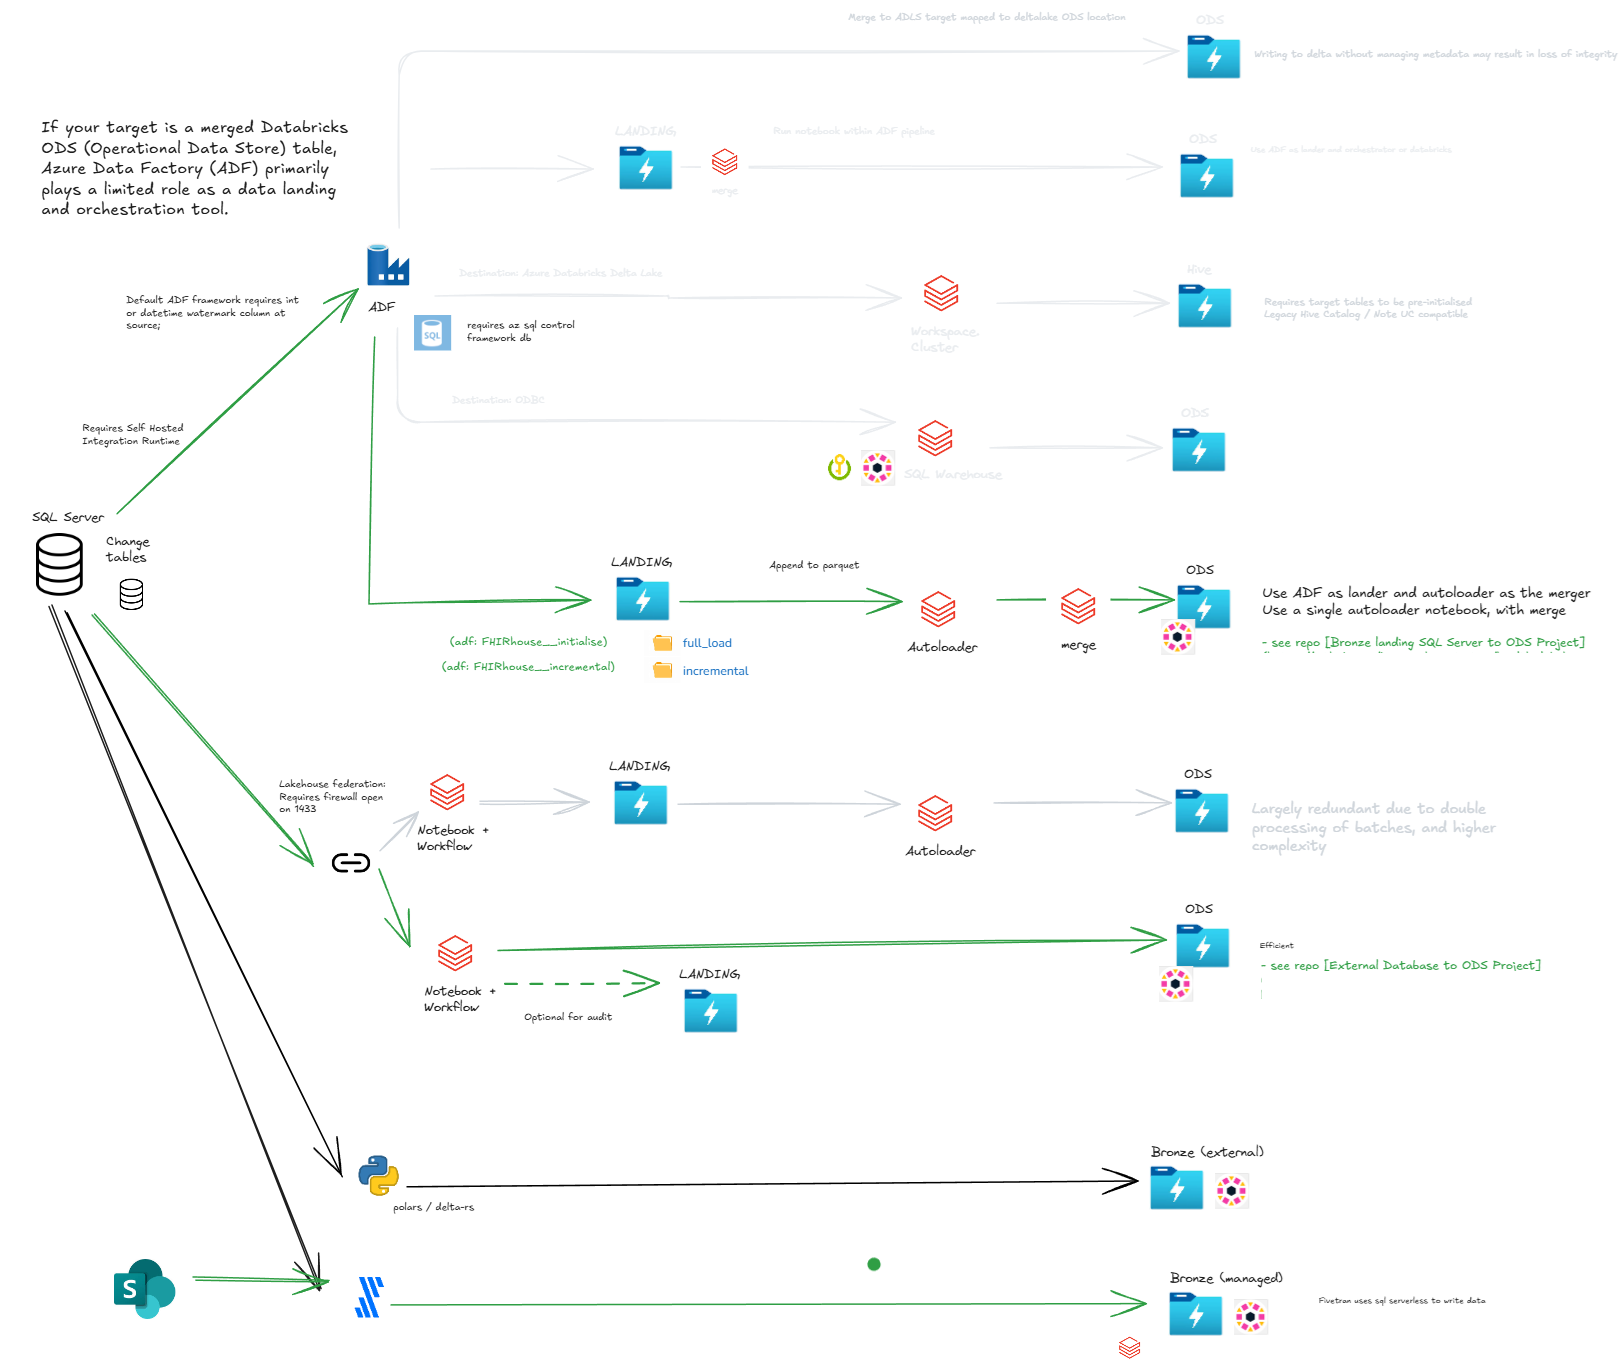
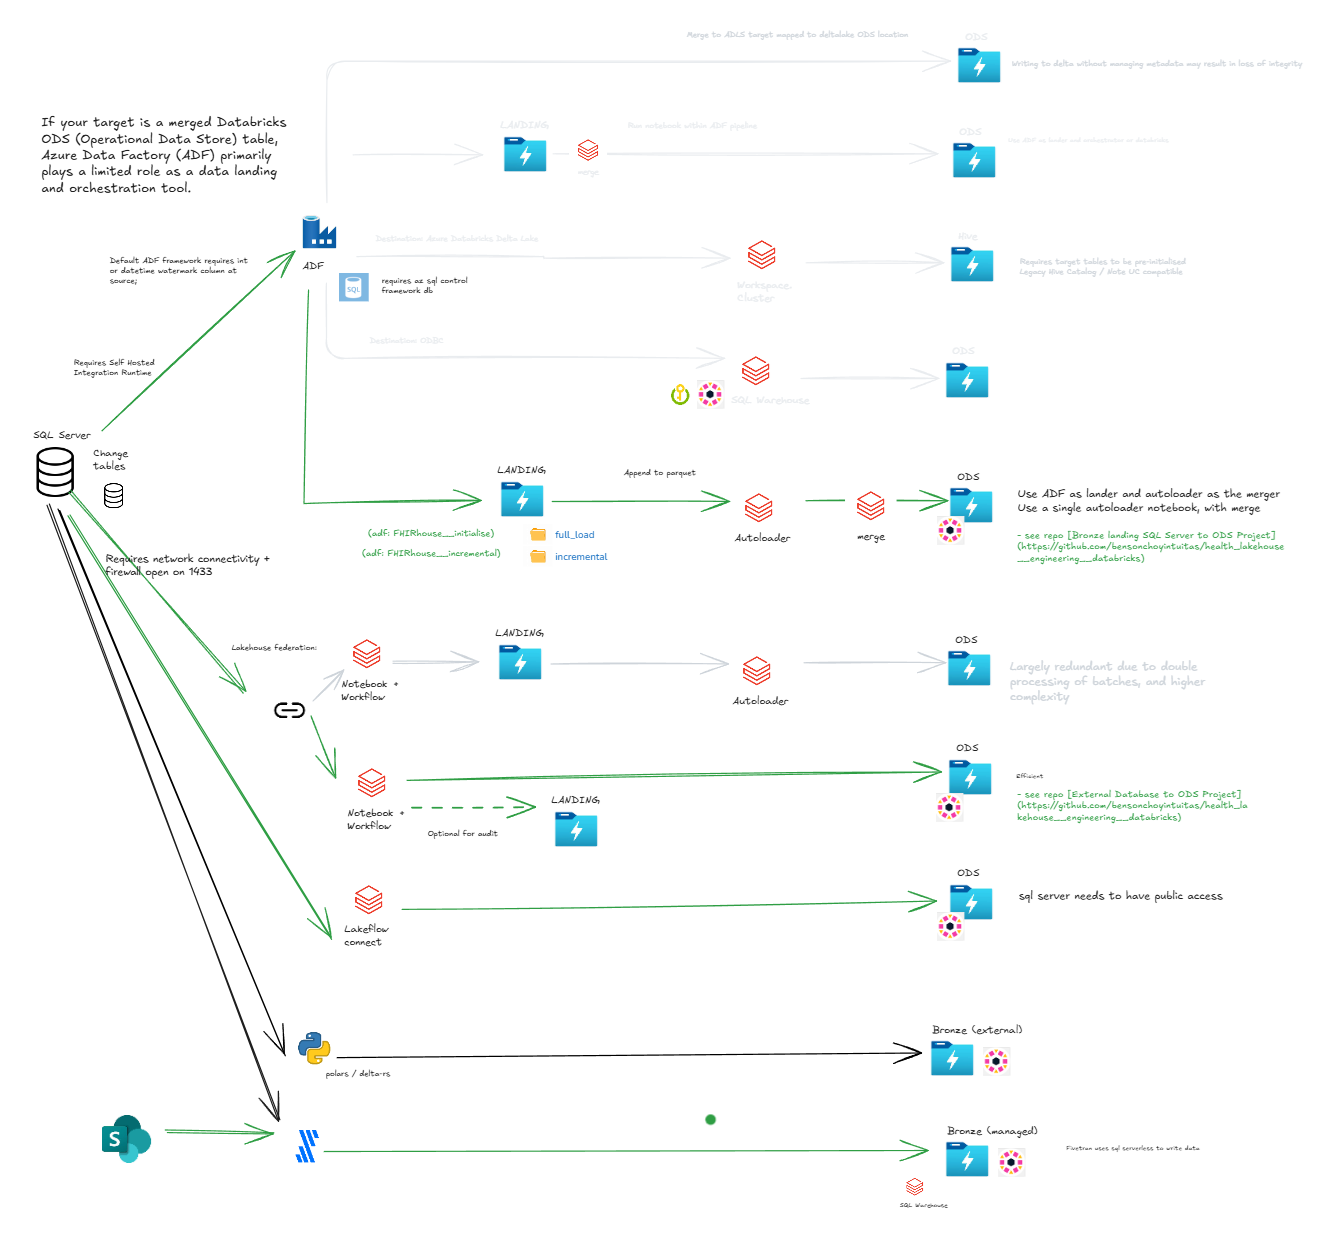
update for lakeflow

diff --git a/docs/level_2.md b/docs/level_2.md
@@ -451,7 +451,10 @@ Example batch ingestion options:
 
 - Pattern 4: batch/streaming: source -> custom python -> deltalake -> external table
 
-- Pattern 5: sharepoint -> fivetran -> databricks sql warehouse (ods)
+- Pattern 5: databricks lakeflow: source -> lakeflow connect -> ods
+    - requires network access to source
+
+- Pattern 6: sharepoint -> fivetran -> databricks sql warehouse (ods)
     - see repo [fivetran](https://github.com/bensonchoyintuitas/health_lakehouse__engineering__custom)
 
 Rejected patterns:
